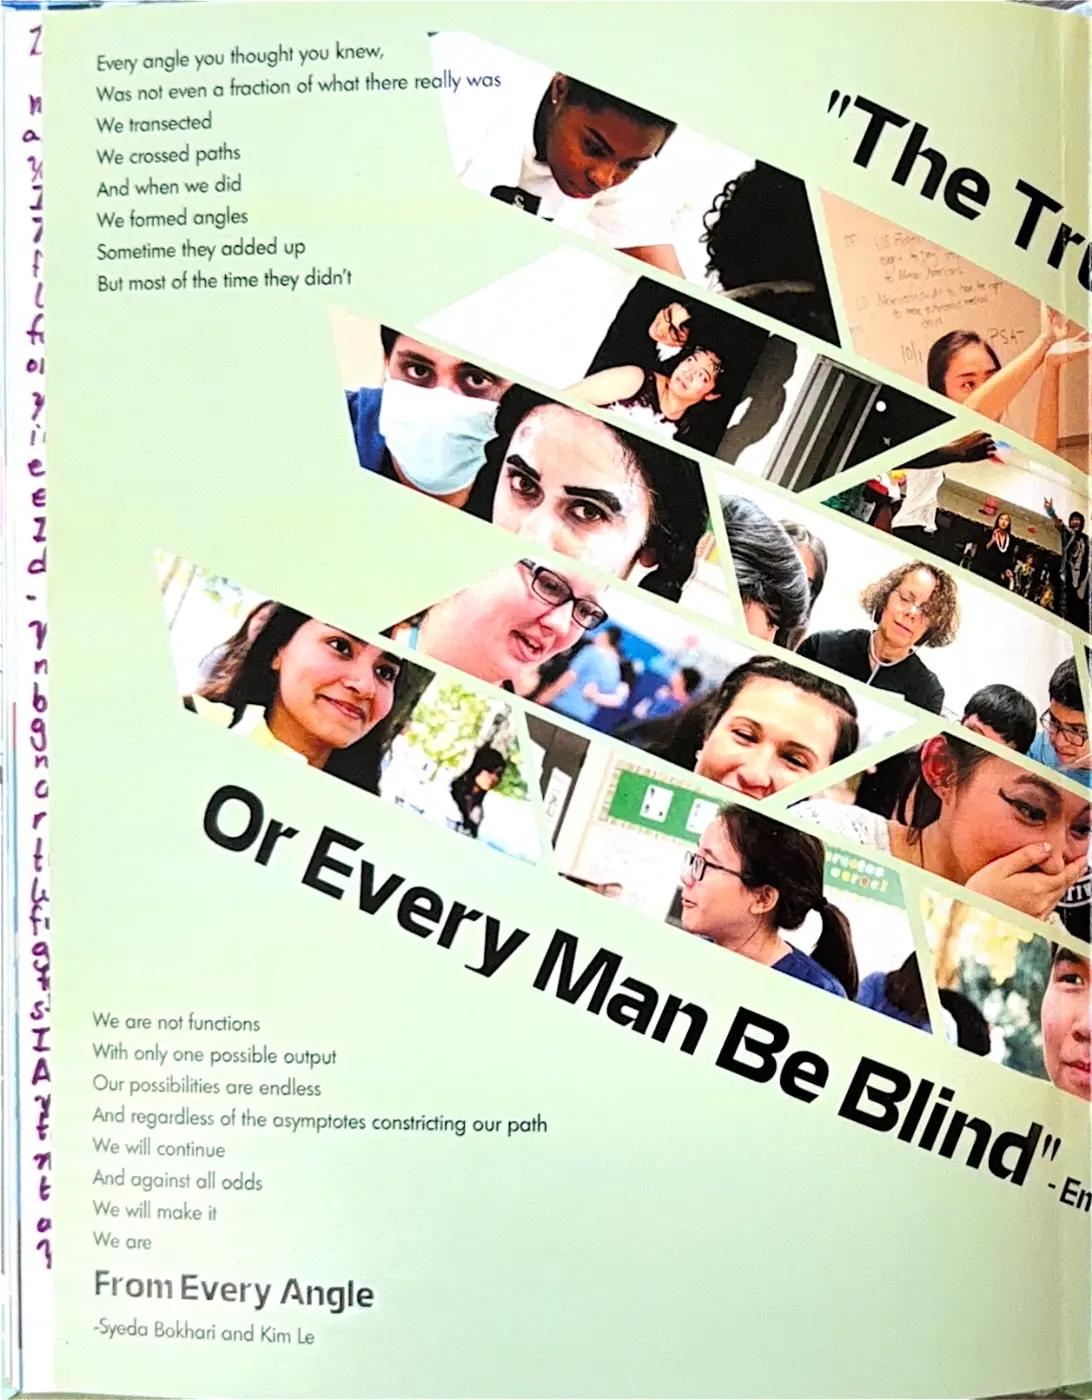
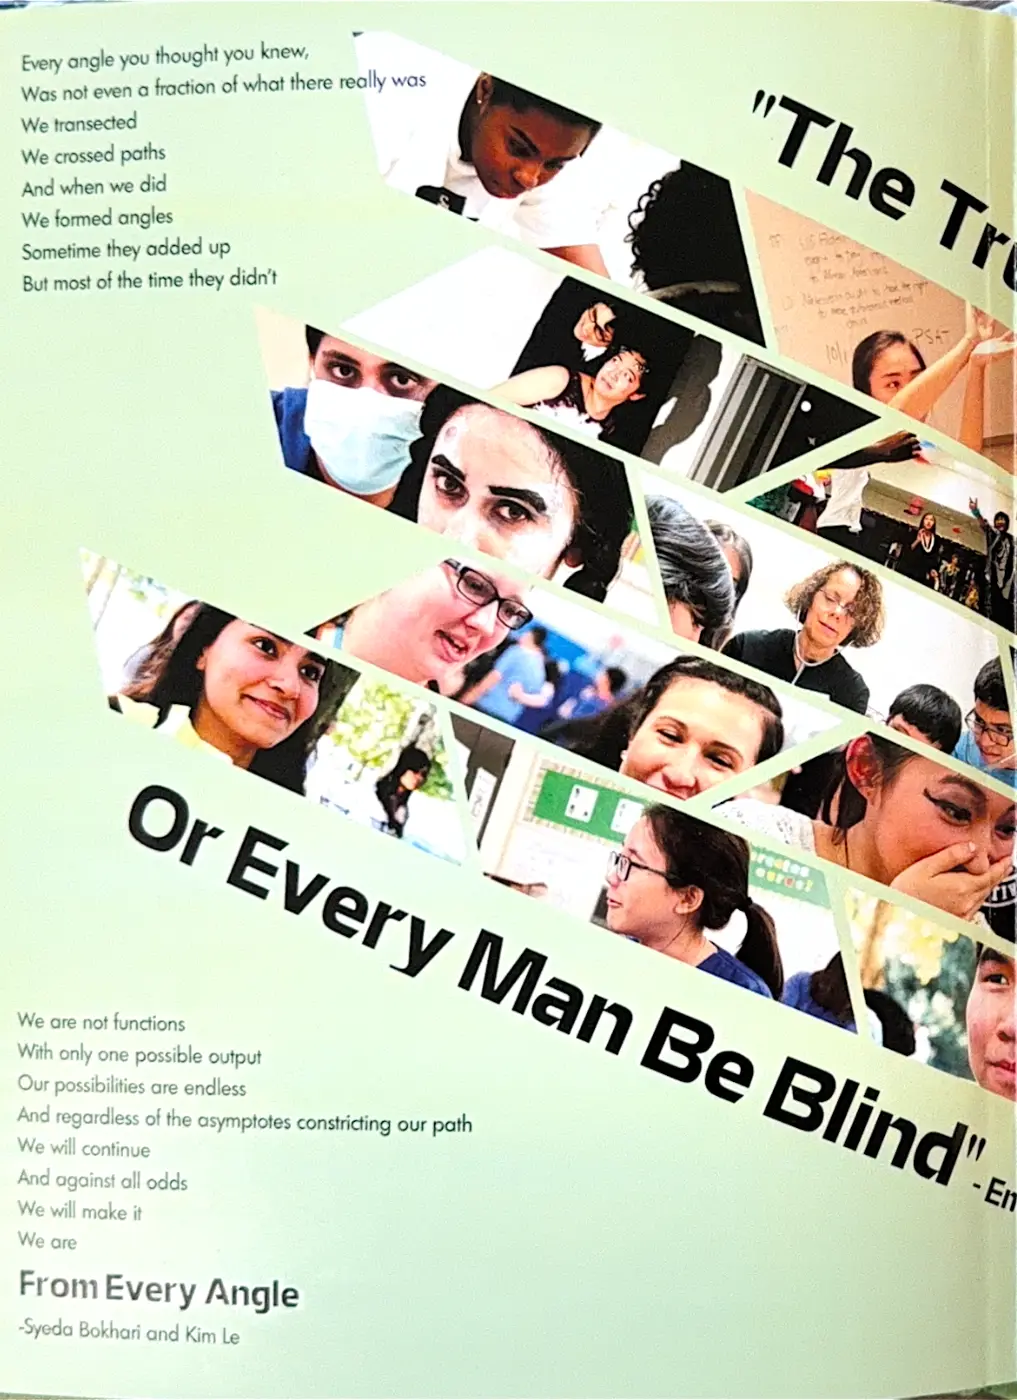
fix: trim handwritten note from yearbook page 117

diff --git a/tools/yearbook_pages.py b/tools/yearbook_pages.py
@@ -18,6 +18,8 @@ PARTS = [(1, range(0, 24), True), (2, range(0, 24), False), (3, range(0, 11), Tr
 COVERS = {"front": (3, 11), "back": (3, 12)}
 # Gutter nudges in output px, keyed by 1-based spread number. + moves the split right.
 OFFSETS: dict[int, int] = {30: -60, 31: -62, 32: -55, 33: -25, 39: -25}
+# Px trimmed off a left page's outer edge, keyed by page number (117: handwritten note).
+TRIM_LEFT: dict[int, int] = {117: 75}
 
 
 def render(doc, index, rotate, height):
@@ -44,7 +46,8 @@ def main(src="yearbook", out="site/yearbook/pages"):
             spread += 1
             img = render(docs[part], index, rotate, HEIGHT)
             cut = img.width // 2 + OFFSETS.get(spread, 0)
-            img.crop((0, 0, cut, img.height)).save(out / f"{2 * spread - 1:03}.webp", quality=QUALITY)
+            left = 2 * spread - 1
+            img.crop((TRIM_LEFT.get(left, 0), 0, cut, img.height)).save(out / f"{left:03}.webp", quality=QUALITY)
             img.crop((cut, 0, img.width, img.height)).save(out / f"{2 * spread:03}.webp", quality=QUALITY)
             print(f"spread {spread} ({part}#{index})", file=sys.stderr)
 
